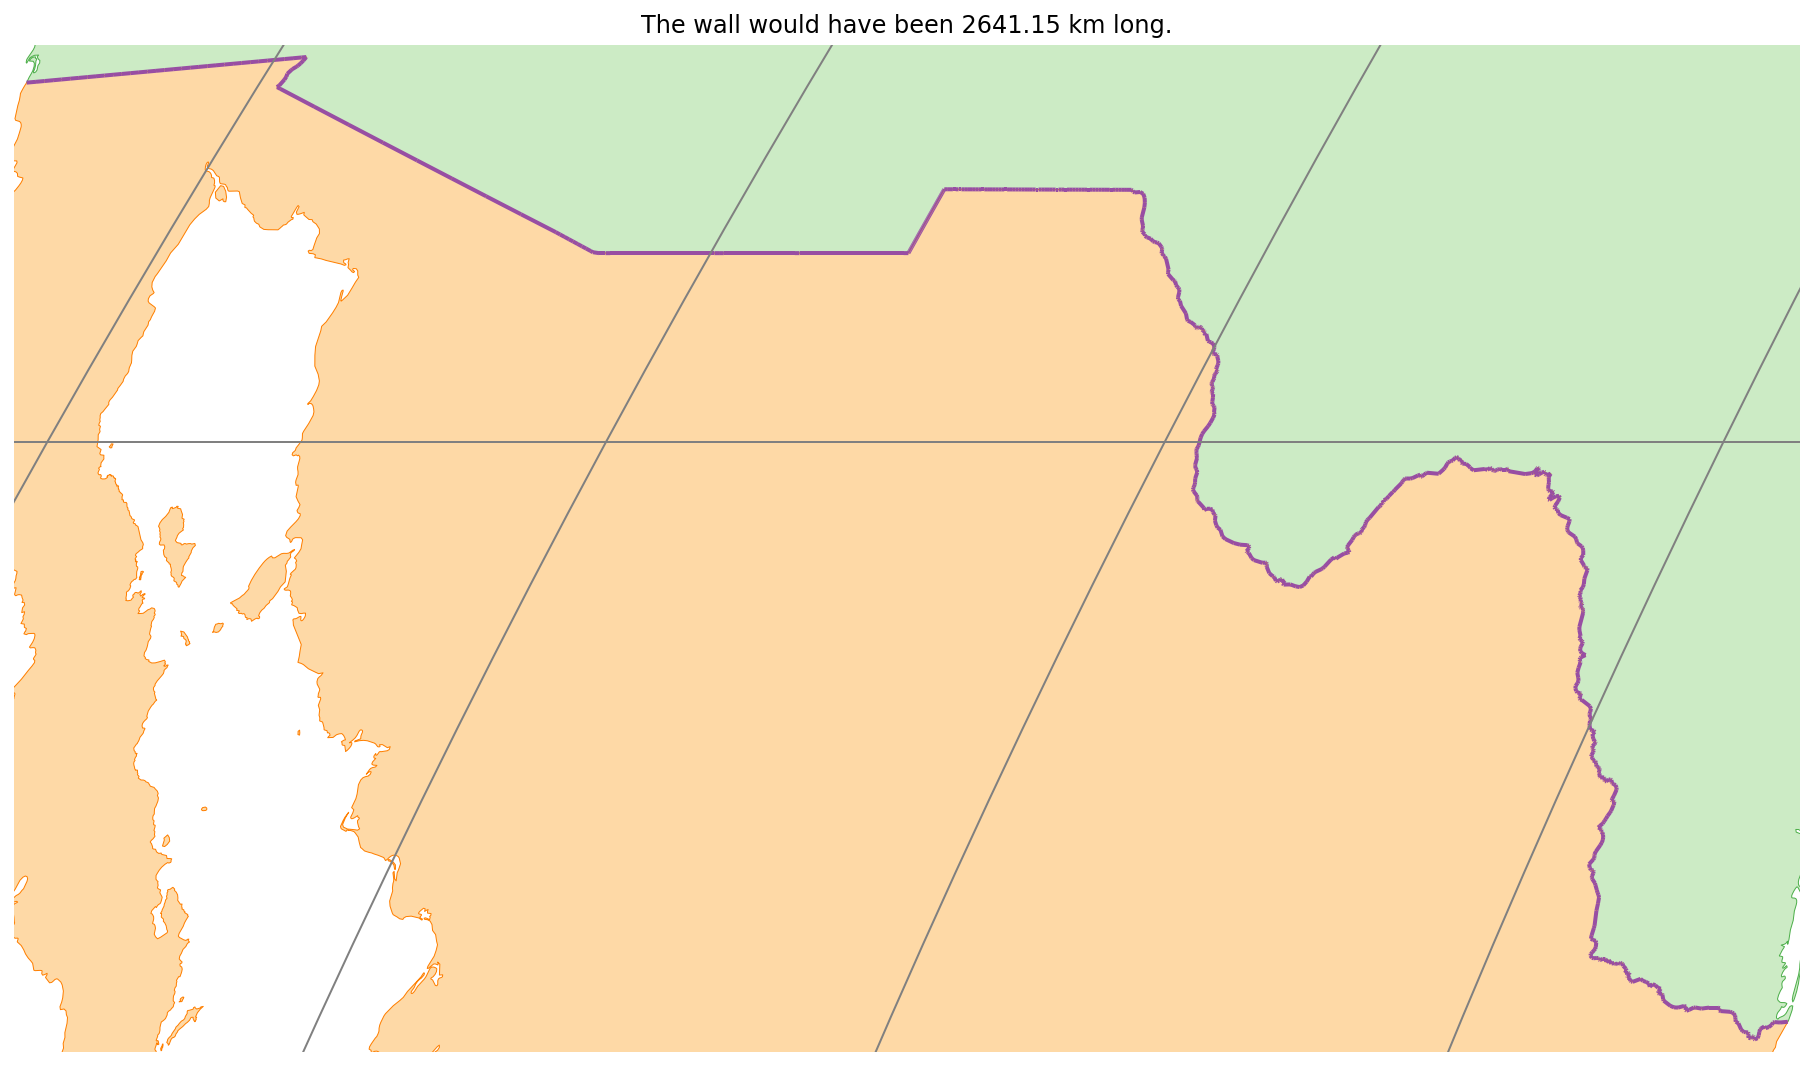
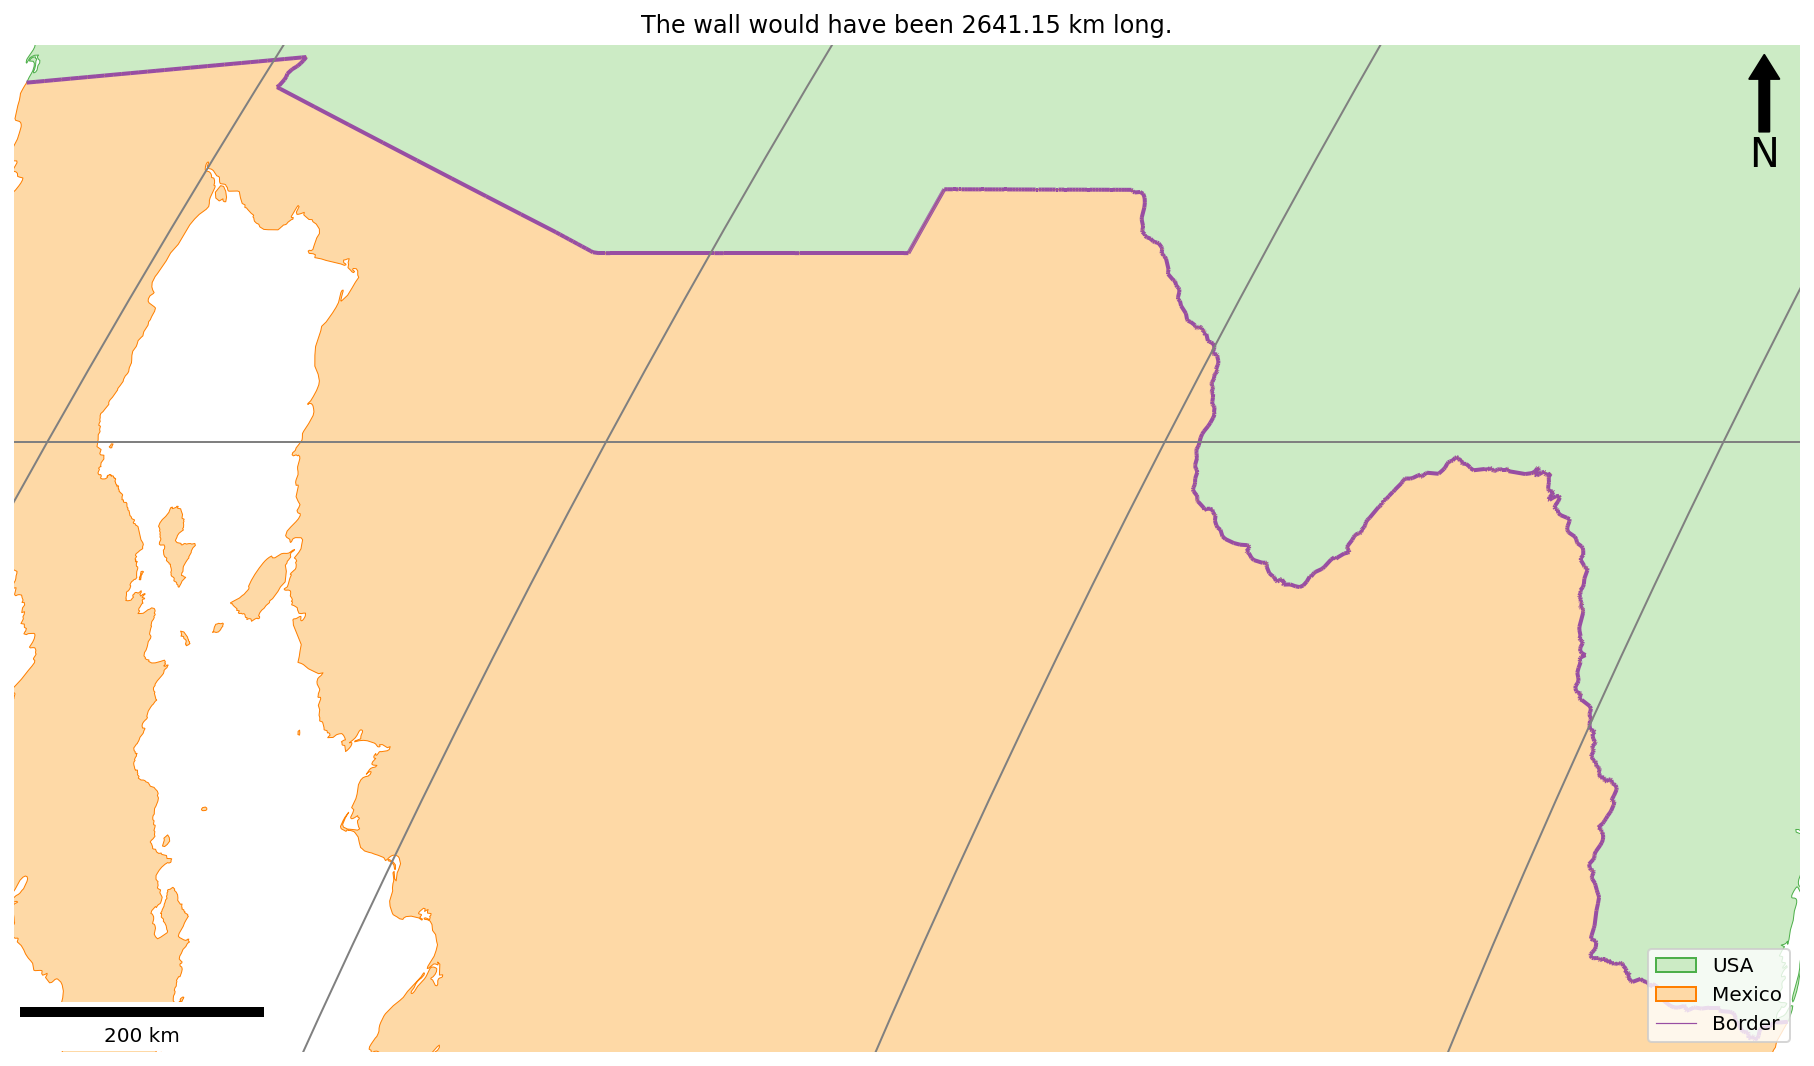
wqeqweqwe

Changed region(s): [[0.8953, 0.8668, 0.9879, 0.9906], [0.0, 0.9287, 0.1544, 0.9906], [0.957, 0.0619, 0.9879, 0.1548]]

diff --git a/week2/week2.py b/week2/week2.py
@@ -1,6 +1,9 @@
 from geopandas import read_file, GeoSeries
 from matplotlib.pyplot import subplots, savefig, title
 from pyproj import Geod
+from matplotlib_scalebar.scalebar import ScaleBar
+from matplotlib.lines import Line2D
+from matplotlib.patches import Patch 
 # load the shapefile of countries - this gives a table of 12 columns and 246 rows (one per country)
 world = read_file("../../data/natural-earth/ne_10m_admin_0_countries.shp")
 # print a list of all of the columns in the shapefile
@@ -104,9 +107,7 @@ graticule.to_crs(lambert_conic).plot(
     linewidth = 1,
     )
 
-# save the result
-savefig('out/2.png', bbox_inches='tight')
-print("done!")
+
 border_series = GeoSeries(border, crs=world.crs).to_crs(lambert_conic)
 # extract the bounds from the (projected) GeoSeries Object
 minx, miny, maxx, maxy = border_series.geometry.iloc[0].bounds
@@ -116,3 +117,20 @@ buffer = 10000
 my_ax.set_xlim([minx - buffer, maxx + buffer])
 my_ax.set_ylim([miny - buffer, maxy + buffer])
 
+# add north arrow
+x, y, arrow_length = 0.98, 0.99, 0.1
+my_ax.annotate('N', xy=(x, y), xytext=(x, y-arrow_length),
+	arrowprops=dict(facecolor='black', width=5, headwidth=15),
+	ha='center', va='center', fontsize=20, xycoords=my_ax.transAxes)
+
+# add scalebar
+my_ax.add_artist(ScaleBar(dx=1, units="m", location="lower left", length_fraction=0.25))
+# add legend
+my_ax.legend(handles=[
+        Patch(facecolor='#ccebc5', edgecolor='#4daf4a', label='USA'),
+        Patch(facecolor='#fed9a6', edgecolor='#ff7f00', label='Mexico'),
+        Line2D([0], [0], color='#984ea3',  lw=0.6, label='Border')
+    ],loc='lower right')
+# save the result
+savefig('out/2.png', bbox_inches='tight')
+print("done!")
